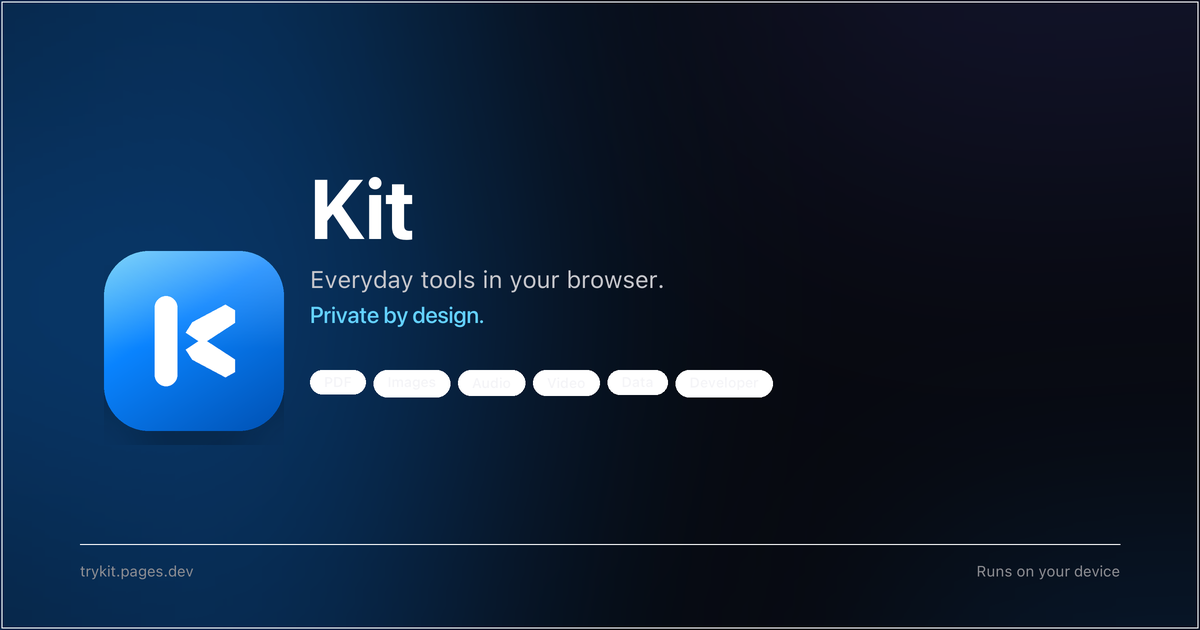
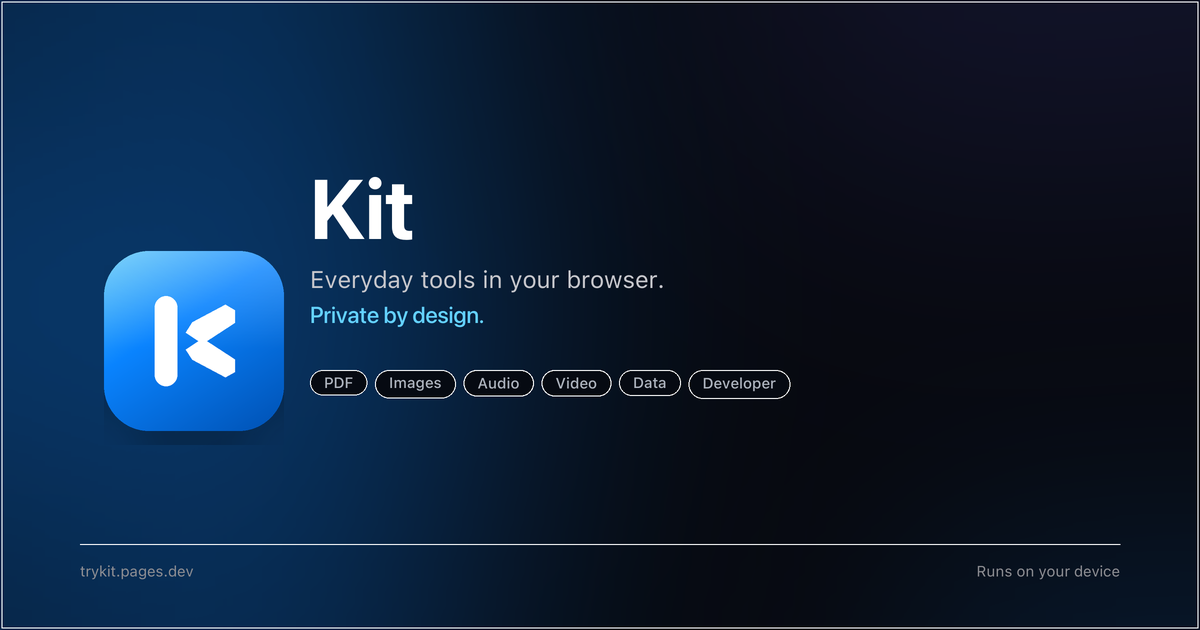
Tone down OG category pills so the labels stay readable
Dark glass chips with a hairline border replace the washed-out white capsules.

Changed region(s): [[0.2467, 0.573, 0.6475, 0.6333]]

diff --git a/scripts/og/render.py b/scripts/og/render.py
@@ -22,8 +22,9 @@ SUB = (199, 199, 204, 255)
 ACCENT = (100, 210, 255, 255)
 MUTED = (142, 142, 147, 255)
 LINE = (255, 255, 255, 28)
-PILL_BG = (255, 255, 255, 28)
-PILL_FG = (244, 244, 247, 255)
+PILL_BG = (6, 10, 18, 150)
+PILL_STROKE = (255, 255, 255, 38)
+PILL_FG = (174, 180, 190, 255)
 
 FONTS = {
     "display_bold": "/Library/Fonts/SF-Pro-Display-Bold.otf",
@@ -81,8 +82,13 @@ def draw_pills(draw: ImageDraw.ImageDraw, labels: list[str], x: int, y: int, fnt
         bbox = draw.textbbox((0, 0), label, font=fnt)
         tw, th = bbox[2] - bbox[0], bbox[3] - bbox[1]
         w, h = tw + pad_x * 2, th + pad_y * 2
-        draw.rounded_rectangle((cx, y, cx + w, y + h), radius=h // 2, fill=PILL_BG)
-        # Vertically center using bbox offset
+        draw.rounded_rectangle(
+            (cx, y, cx + w, y + h),
+            radius=h // 2,
+            fill=PILL_BG,
+            outline=PILL_STROKE,
+            width=2,
+        )
         draw.text((cx + pad_x, y + pad_y - bbox[1]), label, font=fnt, fill=PILL_FG)
         cx += w + gap
 
@@ -106,7 +112,7 @@ def render() -> None:
     title_font = font("display_bold", 168)
     sub_font = font("text_regular", 48)
     accent_font = font("display_medium", 46)
-    pill_font = font("text_medium", 28)
+    pill_font = font("text_medium", 30)
     url_font = font("text_regular", 30)
 
     text_x = 620
